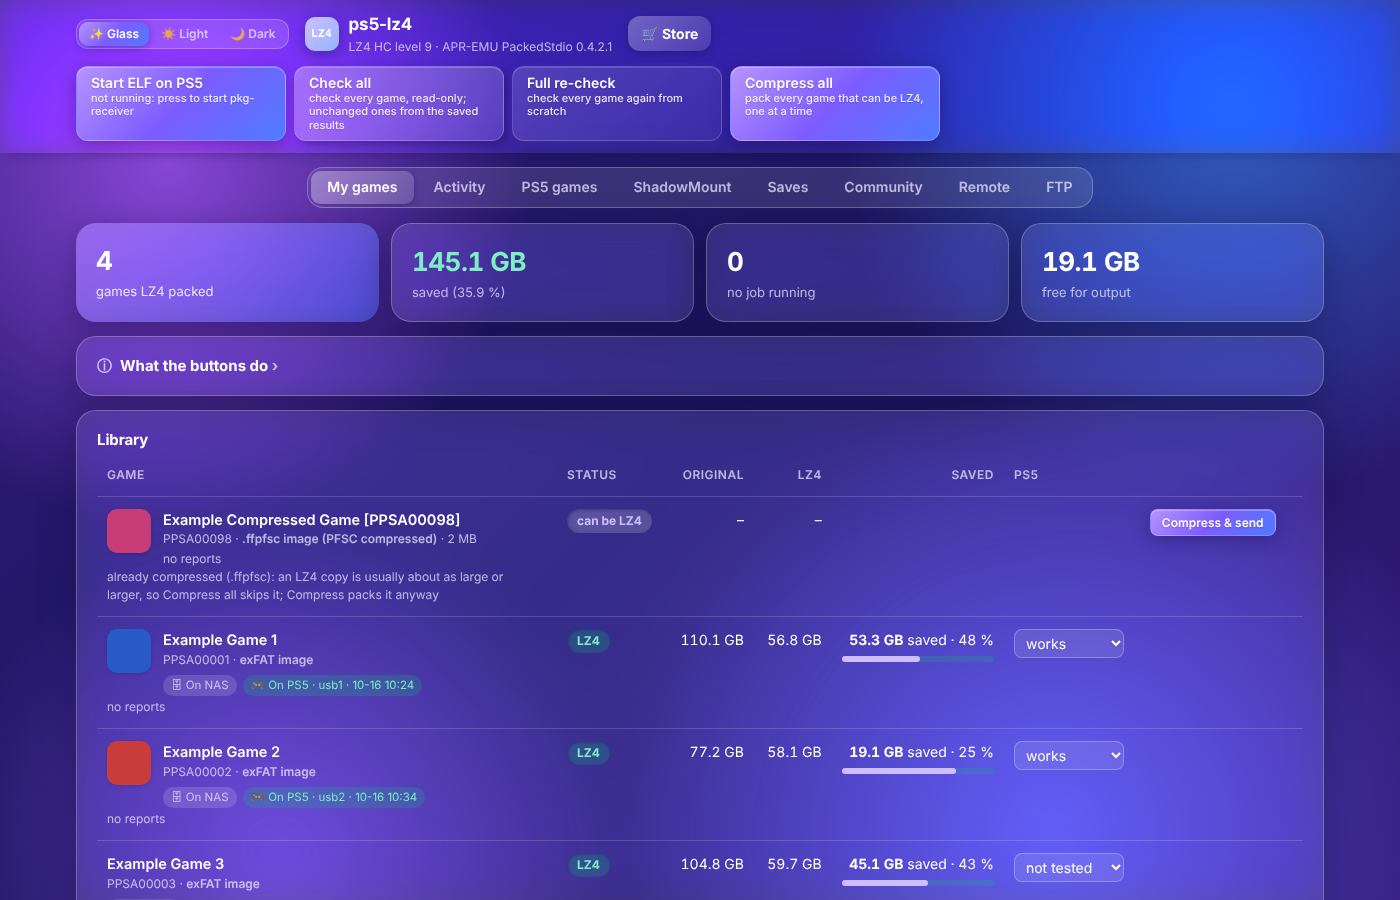
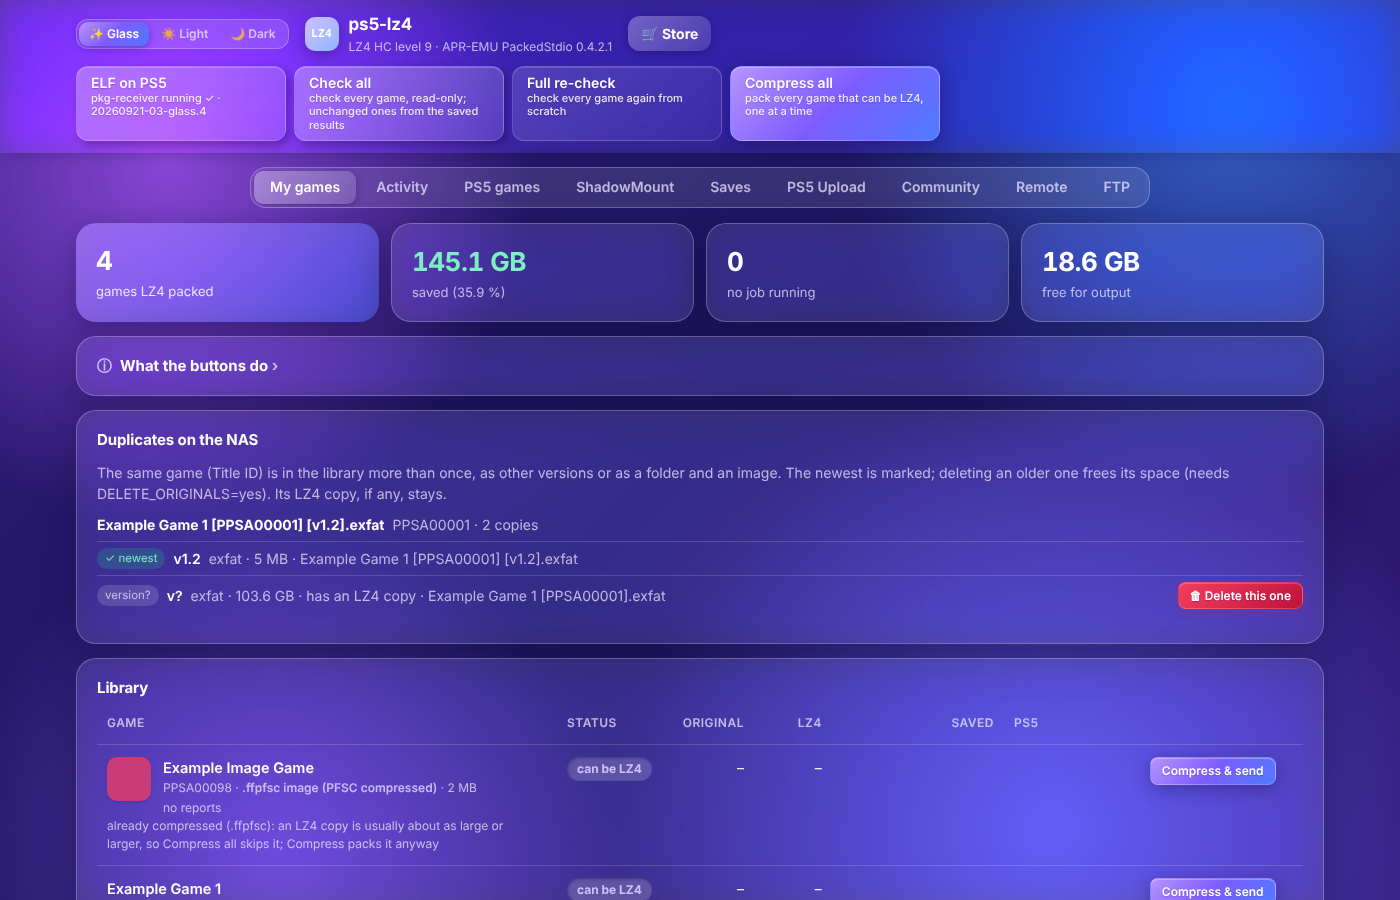
Front page: test-first deletes, Compress on PS5, ShadowMount delete, PS5 Upload tab, phone layout; new screenshot
Claude-Session: https://claude.ai/code/session_01E59aT56xFViZr97Uu2YrmJ

diff --git a/.github/README.md b/.github/README.md
@@ -20,8 +20,8 @@ Full guide: [nas-lz4/README.md](../nas-lz4/README.md).
   PackedStdio 0.4.2.1** runtime in `fakelib/libSceAmpr.sprx`.
 - **Sources:** game folders, `.exfat`, `.ffpfs` and `.ffpfsc` images, and
   **RAR archives**: extracted (CRC of every file checked) into a checked
-  `.exfat`; the RAR files go only on request, after the image is checked
-  against the archive again.
+  `.exfat` named after the game; the RAR files go only on request, after the
+  image is checked against the archive again.
 - **Checks before anything is published:** every chunk decoded and compared
   with the original, then a full unpack compared byte for byte. **Verify
   LZ4** re-checks a copy before sending; **Check all** / **Repair** check
@@ -29,6 +29,9 @@ Full guide: [nas-lz4/README.md](../nas-lz4/README.md).
 - **exFAT images** of LZ4 copies, built and compared file by file.
 - **Originals are never changed** unless you turn that on
   (`DELETE_ORIGINALS=yes`); the library is mounted read-only.
+- **Test first, delete later:** an original with an LZ4 copy, or the RAR
+  files of an extracted game, can only be deleted once the game is marked
+  *works* on the PS5 (a PS5 result for every game).
 
 **To the PS5**
 - **Send to PS5** over FTP (ftpsrv), resumable and queued: every file's size
@@ -40,11 +43,16 @@ Full guide: [nas-lz4/README.md](../nas-lz4/README.md).
   and Retry.
 - **PS5 games tab:** every game on every drive and the installed PS4 games,
   with **Needs attention** (what ShadowMountPlus won't pick up, with Fix),
-  Verify, Delete (also takes the tile off the home screen) and Uninstall.
+  Verify, Delete (also takes the tile off the home screen), Uninstall and
+  **⚡ Compress on PS5** (the console's LZ4 engine packs a game in place,
+  original kept).
 - **ShadowMount tab:** the games ShadowMountPlus shows, from its own API:
-  remove from the home screen, hide, unmount, rescan, its logs.
+  remove from the home screen, hide, **delete** (unmount, tile off, files
+  deleted), move between drives, unmount, rescan, its logs.
 - **Saves tab:** back up every PS5/PS4 save to the NAS, download as .zip,
   restore one game.
+- **PS5 Upload tab:** opens [ps5upload](https://github.com/phantomptr/ps5upload)
+  running in its own container (`PS5UPLOAD=yes` installs its official image).
 - **Wake from rest mode** (Remote Play pairing, like Chiaki), keep the PS5
   awake during work, and notifications on the PS5 and your phone (ntfy or a
   webhook).
@@ -58,7 +66,7 @@ keep-awake, ShadowMountPlus bridge): see [pkg-receiver/](../pkg-receiver/).
 
 **Also:** the original project's community game reports and the `.ffpfsc`
 compatibility sheet per title, a Store page for the PS5 browser, Glass /
-Light / Dark themes, Prometheus `/metrics`, an FPKGi feed.
+Light / Dark themes, a phone layout, Prometheus `/metrics`, an FPKGi feed.
 
 ## Install
 
@@ -99,8 +107,10 @@ is rebuilt after every change).
   [drakmor/ShadowMountPlus](https://github.com/drakmor/ShadowMountPlus).
 - [streetpea/chiaki-ng](https://github.com/streetpea/chiaki-ng): Remote Play
   discovery, wake-up and registration (AGPL-3.0).
-- Ideas from game-library-manager-ps5, ps5upload, P5 Manager, ps5-exporter
-  and FPKGi (reimplemented, no code copied).
+- [phantomptr/ps5upload](https://github.com/phantomptr/ps5upload) (GPL-3.0):
+  run as its own official container, not copied in.
+- Ideas from game-library-manager-ps5, P5 Manager, ps5-exporter and FPKGi
+  (reimplemented, no code copied).
 - [MkPFS](https://pypi.org/project/mkpfs/) for exFAT and PFS images,
   [ps5-payload-dev/ftpsrv](https://github.com/ps5-payload-dev/ftpsrv) on the
   console, UnRAR (RARLAB freeware) for archives.
